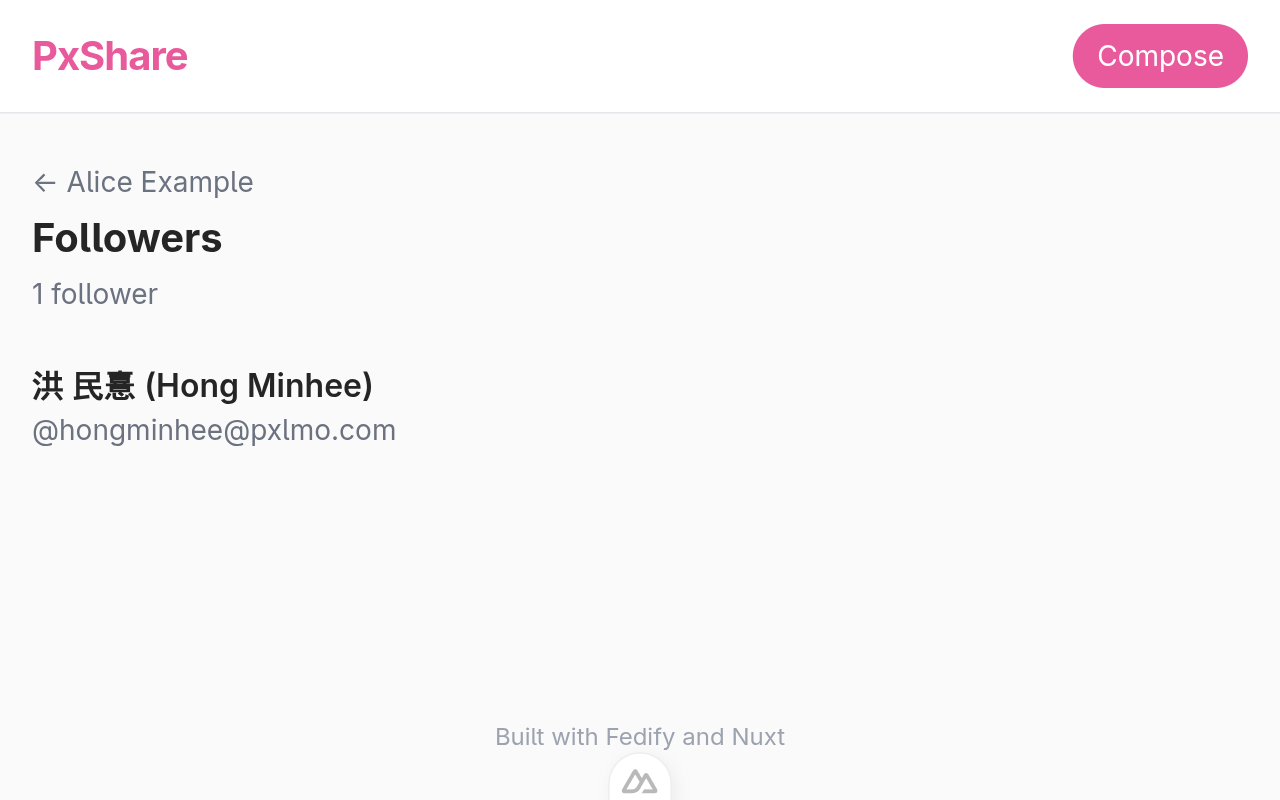
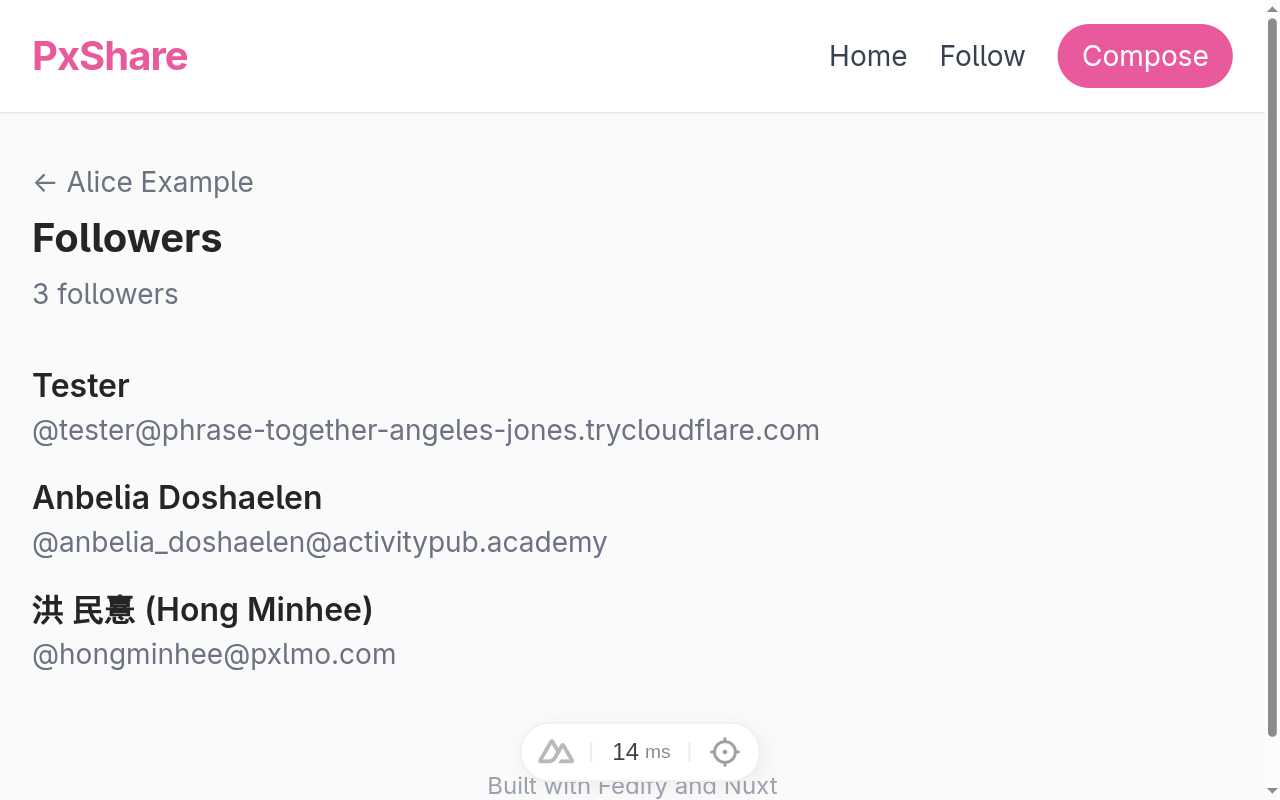
Close remaining Pixelfed coverage gaps in chapters 12, 20, 22
Three updates carry Pixelfed federation coverage further:

1. Chapter 12 (Followers list) — replaces the single-academy
   followers-list screenshot with one that shows three
   followers including a Pixelfed account, and updates the alt
   text to call out the heterogeneous mix.
2. Chapter 20 (Following list) — adds an Unfollow button on
   the page, a new "The unfollow endpoint" section walking
   through `/api/follow.delete.ts` (twoslash), an updated
   following-list screenshot, and a Trying-it-out paragraph
   showing the Pixelfed-side row disappearing after the click.
3. Chapter 22 (Likes) — clarifies that the inbound-Like
   screenshot's like came from a Pixelfed account, and
   replaces the old "Pixelfed unlike disappears straight away"
   wording with a NOTE explaining Pixelfed's denormalized
   `likes_count` cache lag (the federation works; only the
   counter UI lags).

Assisted-by: Claude Code:claude-opus-4-7

diff --git a/docs/tutorial/content-sharing.md b/docs/tutorial/content-sharing.md
@@ -2999,9 +2999,11 @@ link.](./content-sharing/profile-with-follower-count.png)
 Click through and you land on the new HTML list:
 
 ![Alice's followers page.  A “← Alice Example” back link, the
-“Followers” heading, “1 follower”, and a single entry showing
-the remote follower's display name and handle.  Each follower's
-handle is itself a link to their original profile on the remote
+“Followers” heading, “3 followers”, and three entries: a
+Pixelfed account “Tester” (&commat;tester@…), an
+ActivityPub.Academy account “Anbelia Doshaelen”, and a Pixelfed
+account “洪 民憙 (Hong Minhee)”.  Each follower's handle is
+itself a link to their original profile on the remote
 server.](./content-sharing/followers-list.png)
 
 Refresh alice's profile on Mastodon or Pixelfed.  Both servers
@@ -4724,7 +4726,7 @@ Create *app/pages/users/\[username]/following.vue*:
 const route = useRoute();
 const username = computed(() => String(route.params.username));
 
-const { data, error } = await useFetch(
+const { data, error, refresh } = await useFetch(
   () => `/api/users/${username.value}/following`,
   { key: () => `following-${username.value}` },
 );
@@ -4735,6 +4737,20 @@ if (error.value) {
 
 const user = computed(() => data.value?.user ?? null);
 const following = computed(() => data.value?.following ?? []);
+const pending = ref<Set<string>>(new Set());
+
+async function unfollow(actorUri: string) {
+  pending.value.add(actorUri);
+  try {
+    await $fetch("/api/follow", {
+      method: "DELETE",
+      body: { actorUri },
+    });
+    await refresh();
+  } finally {
+    pending.value.delete(actorUri);
+  }
+}
 
 useHead({
   title: () =>
@@ -4763,7 +4779,7 @@ useHead({
       <li
         v-for="account in following"
         :key="account.actorUri"
-        class="flex items-center gap-3"
+        class="flex items-center justify-between gap-3"
       >
         <a
           :href="account.url ?? account.actorUri"
@@ -4774,6 +4790,14 @@ useHead({
           <span class="font-semibold">{{ account.name ?? account.handle }}</span>
           <span class="text-sm text-gray-500">{{ account.handle }}</span>
         </a>
+        <button
+          type="button"
+          :disabled="pending.has(account.actorUri)"
+          class="px-3 py-1 text-sm border border-gray-300 rounded-full hover:border-rose-400 hover:text-rose-500 disabled:opacity-50 disabled:cursor-not-allowed"
+          @click="unfollow(account.actorUri)"
+        >
+          {{ pending.has(account.actorUri) ? "Unfollowing…" : "Unfollow" }}
+        </button>
       </li>
     </ul>
     <p v-else class="text-sm text-gray-400 py-8 text-center">
@@ -4782,6 +4806,109 @@ useHead({
   </section>
 </template>
 ~~~~
+
+The *Unfollow* button calls a new `DELETE /api/follow` endpoint
+(written below).  We track in-flight unfollows in a `pending`
+Set so each row's button can disable itself independently
+without freezing the whole list.
+
+### The unfollow endpoint
+
+Create *server/api/follow.delete.ts*:
+
+~~~~ typescript twoslash [server/api/follow.delete.ts]
+// @noErrors: 2304 2307
+import { Follow, Undo } from "@fedify/vocab";
+import { and, eq } from "drizzle-orm";
+import {
+  createError,
+  defineEventHandler,
+  readBody,
+  toWebRequest,
+} from "h3";
+import { db } from "../db/client";
+import { following } from "../db/schema";
+import federation from "../federation";
+import { getLocalUser } from "../utils/users";
+
+export default defineEventHandler(async (event) => {
+  const user = await getLocalUser();
+  if (user == null) {
+    throw createError({ statusCode: 403, statusMessage: "No user" });
+  }
+  const body = await readBody<{ actorUri?: unknown }>(event);
+  const actorUri =
+    typeof body?.actorUri === "string" ? body.actorUri.trim() : "";
+  if (actorUri === "") {
+    throw createError({ statusCode: 400, statusMessage: "Missing actorUri" });
+  }
+
+  const [row] = await db
+    .select()
+    .from(following)
+    .where(
+      and(eq(following.followerId, user.id), eq(following.actorUri, actorUri)),
+    )
+    .limit(1);
+  if (row === undefined) {
+    return { actorUri, following: false };
+  }
+
+  // Drop the local row first so the UI reflects the unfollow even
+  // if the remote inbox is slow.
+  await db
+    .delete(following)
+    .where(
+      and(eq(following.followerId, user.id), eq(following.actorUri, actorUri)),
+    );
+
+  // Send an `Undo(Follow)` to the remote actor's inbox.  Re-build
+  // the original `Follow` activity (using the id we stored at
+  // follow time so peers can match by id) and wrap it in `Undo`.
+  const ctx = federation.createContext(toWebRequest(event), undefined);
+  const aliceUri = ctx.getActorUri(user.username);
+  const followActivityId = new URL(row.followActivityId);
+  await ctx.sendActivity(
+    { identifier: user.username },
+    {
+      id: new URL(row.actorUri),
+      inboxId: new URL(row.inboxUrl),
+      endpoints:
+        row.sharedInboxUrl == null
+          ? null
+          : { sharedInbox: new URL(row.sharedInboxUrl) },
+    },
+    new Undo({
+      id: new URL(`#undo-follows/${crypto.randomUUID()}`, aliceUri),
+      actor: aliceUri,
+      object: new Follow({
+        id: followActivityId,
+        actor: aliceUri,
+        object: new URL(row.actorUri),
+      }),
+    }),
+  );
+
+  return { actorUri, following: false };
+});
+~~~~
+
+Two details worth pointing out:
+
+`followActivityId` *(round-tripped through the database)*
+:   Chapter 19 stored the outbound `Follow`'s id on the
+    *following* row precisely so the unfollow path can echo it
+    back inside the embedded `Follow`.  Mastodon, Pixelfed, and
+    GoToSocial all match incoming `Undo(Follow)` against their
+    pending follow record by that id; without it the unfollow
+    silently no-ops on the remote side.
+
+*The recipient is built inline*
+:   `ctx.~Context.sendActivity()` accepts any object that
+    implements the `~Recipient` shape (an actor `id`, an
+    `inboxId`, and an optional `endpoints.sharedInbox`).  We
+    have all three on the *following* row, so we hand them over
+    directly and skip a `lookupObject` round trip.
 
 ### A counter on the profile
 
@@ -4842,10 +4969,27 @@ The header now reads *posts · followers · following*:
 
 ![alice's profile header showing “4 posts · 2 followers · 1 following”.](./content-sharing/profile-with-following-counter.png)
 
-Click *1 following* and the new page lists the accounts:
+Click *2 following* and the new page lists the accounts, each
+with an *Unfollow* button:
 
-![The Following page showing one entry, “Anbelia Doshaelen
-&commat;anbelia\_doshaelen&commat;activitypub.academy”.](./content-sharing/following-list.png)
+![alice's Following page showing two entries: a Pixelfed
+account “Tester” (&commat;tester&commat;your-pixelfed.example)
+and an ActivityPub.Academy account “Anbelia Doshaelen”, each
+with an Unfollow button on the
+right.](./content-sharing/following-list.png)
+
+Click *Unfollow* and the row disappears.  The dev server logs
+the outbound `Undo(Follow)`:
+
+~~~~ ansi [terminal]
+ℹ INF fedify·federation·outbox Successfully sent activity
+  'https://your-tunnel.example/users/alice#undo-follows/…'
+  to 'https://your-pixelfed.example/users/tester/inbox'.
+~~~~
+
+Refresh the Pixelfed account's *Followers* page (or query the
+database directly) and the alice row is gone.  Re-click
+*Follow* on the Follow page to put the relationship back.
 
 ### The ActivityPub `Following` collection
 
@@ -5764,27 +5908,35 @@ post”.](./content-sharing/pixelfed-post-with-like.png)
 
 #### Inbound: a Pixelfed account likes alice's post
 
-For the reverse direction, click the heart on alice's photo
-from a Pixelfed account that follows her.  Pixelfed sends a
-`Like` to alice's inbox; our handler stores the row, and the
-post detail page shows *1 like* the next time alice loads it:
+For the reverse direction, log in to a Pixelfed account that
+follows alice and click the heart on alice's photo there.
+Pixelfed sends a `Like` to alice's inbox; our handler stores the
+row, and alice's post detail page on PxShare shows *1 like* the
+next time it loads:
 
-![alice's post detail page showing her foggy beach photo with
-caption “Pixelfed federation debug post.”, a red heart icon
-and “1 like” beneath
-it.](./content-sharing/post-detail-with-like.png)
+![alice's post detail page on PxShare showing her foggy beach
+photo with caption “Pixelfed federation debug post.”, a filled
+red heart icon and “1 like” beneath it; the like came from the
+&commat;tester Pixelfed
+account.](./content-sharing/post-detail-with-like.png)
 
-Click the heart again to unlike: the counter decrements and an
-`Undo(Like)` flies out, signed with alice's keys.  Refresh the
-Pixelfed post detail page and the *1 Like* line disappears.
+Click the heart again on either side to unlike: the counter
+decrements on PxShare immediately, and an `Undo(Like)` flies out
+signed with alice's keys.  The dev server log confirms the
+delivery, and alice's local row disappears.
 
 > [!NOTE]
 > Some peers report likes asynchronously through their own
-> federation queue.  Pixelfed delivers within a second once its
-> queue worker (Horizon) drains; Mastodon is similarly quick.
-> Refreshing the post detail page is the simplest way to see
-> the count update; the closing chapter lists websockets / SSE
-> as a stretch goal for live updates.
+> federation queue.  Pixelfed accepts the inbound `Like` and
+> `Undo(Like)` activities within a second once Horizon drains,
+> but its post-detail UI keeps a denormalized `likes_count`
+> cached on the status that does not always update straight away,
+> so the *N Likes* display can lag by a few seconds before it
+> matches the underlying row.  PxShare's count is recomputed
+> live on every page load, so refreshing alice's post detail
+> page is the most reliable way to see the latest state; the
+> closing chapter lists websockets / SSE as a stretch goal for
+> truly live updates.
 
 
 Comments
